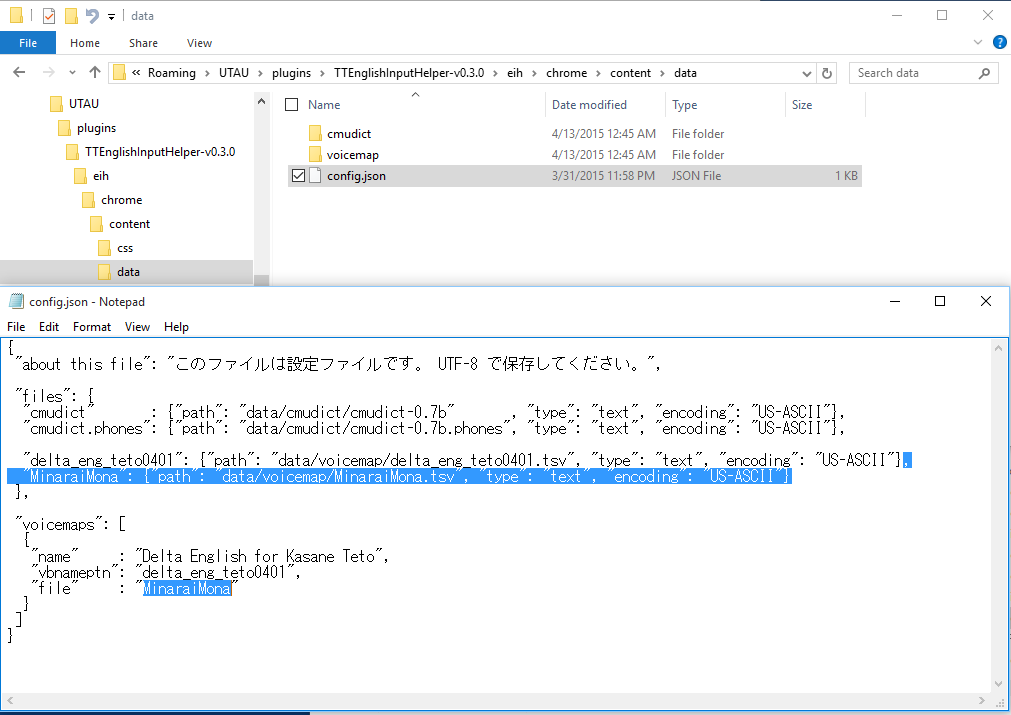
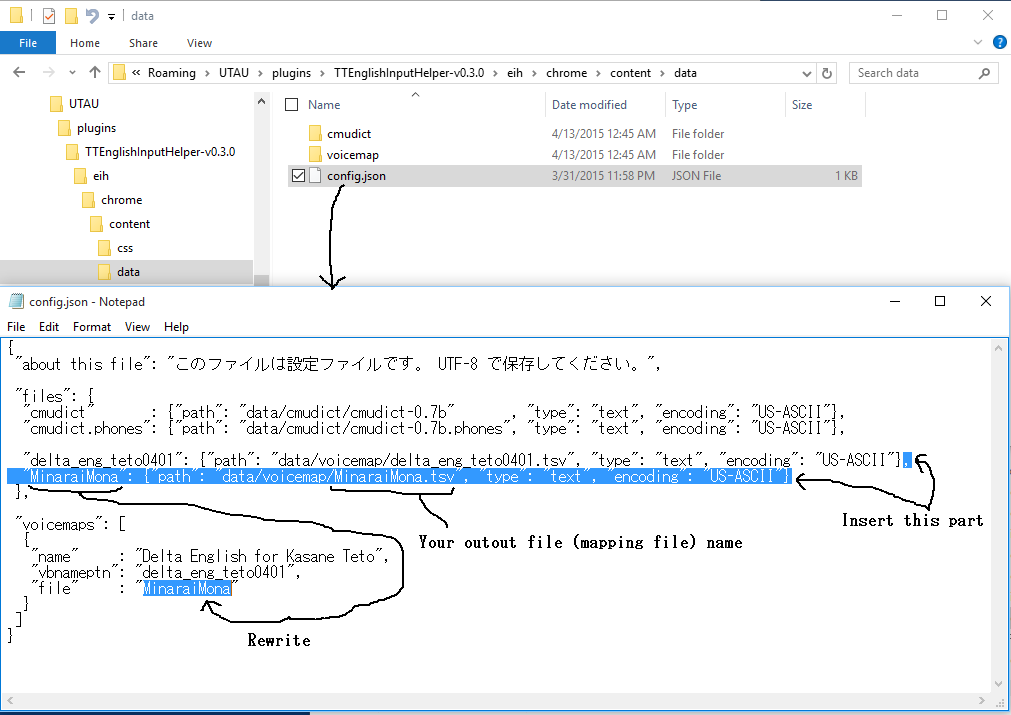
add notes in ss04.png etc.

diff --git a/website/tteihconfig.html b/website/tteihconfig.html
@@ -76,14 +76,14 @@ Delete expanded folder.
         <p><a href="tteihconfigimg/ss02.png" target="__blank"><img src="tteihconfigimg/ss02.png" class="tteih_plgImgBig"></a></p>
       </li>
       <li>
-        <p>Open TTEinglishInputHelper\chrome\contents\data\voicemap, and copy to the folder.</p>
+        <p>Open TTEinglishInputHelper-vX.X.X\eih\chrome\content\data\voicemap\, and copy your output file (mapping file) to the folder.</p>
         <p><a href="tteihconfigimg/ss03.png" target="__blank"><img src="tteihconfigimg/ss03.png" class="tteih_plgImgBig"></a></p>
       </li>
     </ul>
   </li>
 
   <li>
-    Modify config.json of TTEnglishInputHelper plug-in.
+    Edit config.json of TTEnglishInputHelper plug-in.
     <ul>
       <li>
         <p><a href="tteihconfigimg/ss04.png" target="__blank"><img src="tteihconfigimg/ss04.png" class="tteih_plgImgBig"></a></p>

diff --git a/website/style.css b/website/style.css
@@ -91,3 +91,12 @@ body h1:first-child {
  text-align: center;
 }
 
+
+.tteih_notes:before {
+ content: "\203B";
+}
+
+.tteih_notes {
+ padding-left: 1em;
+ text-indent: -1em;
+}
